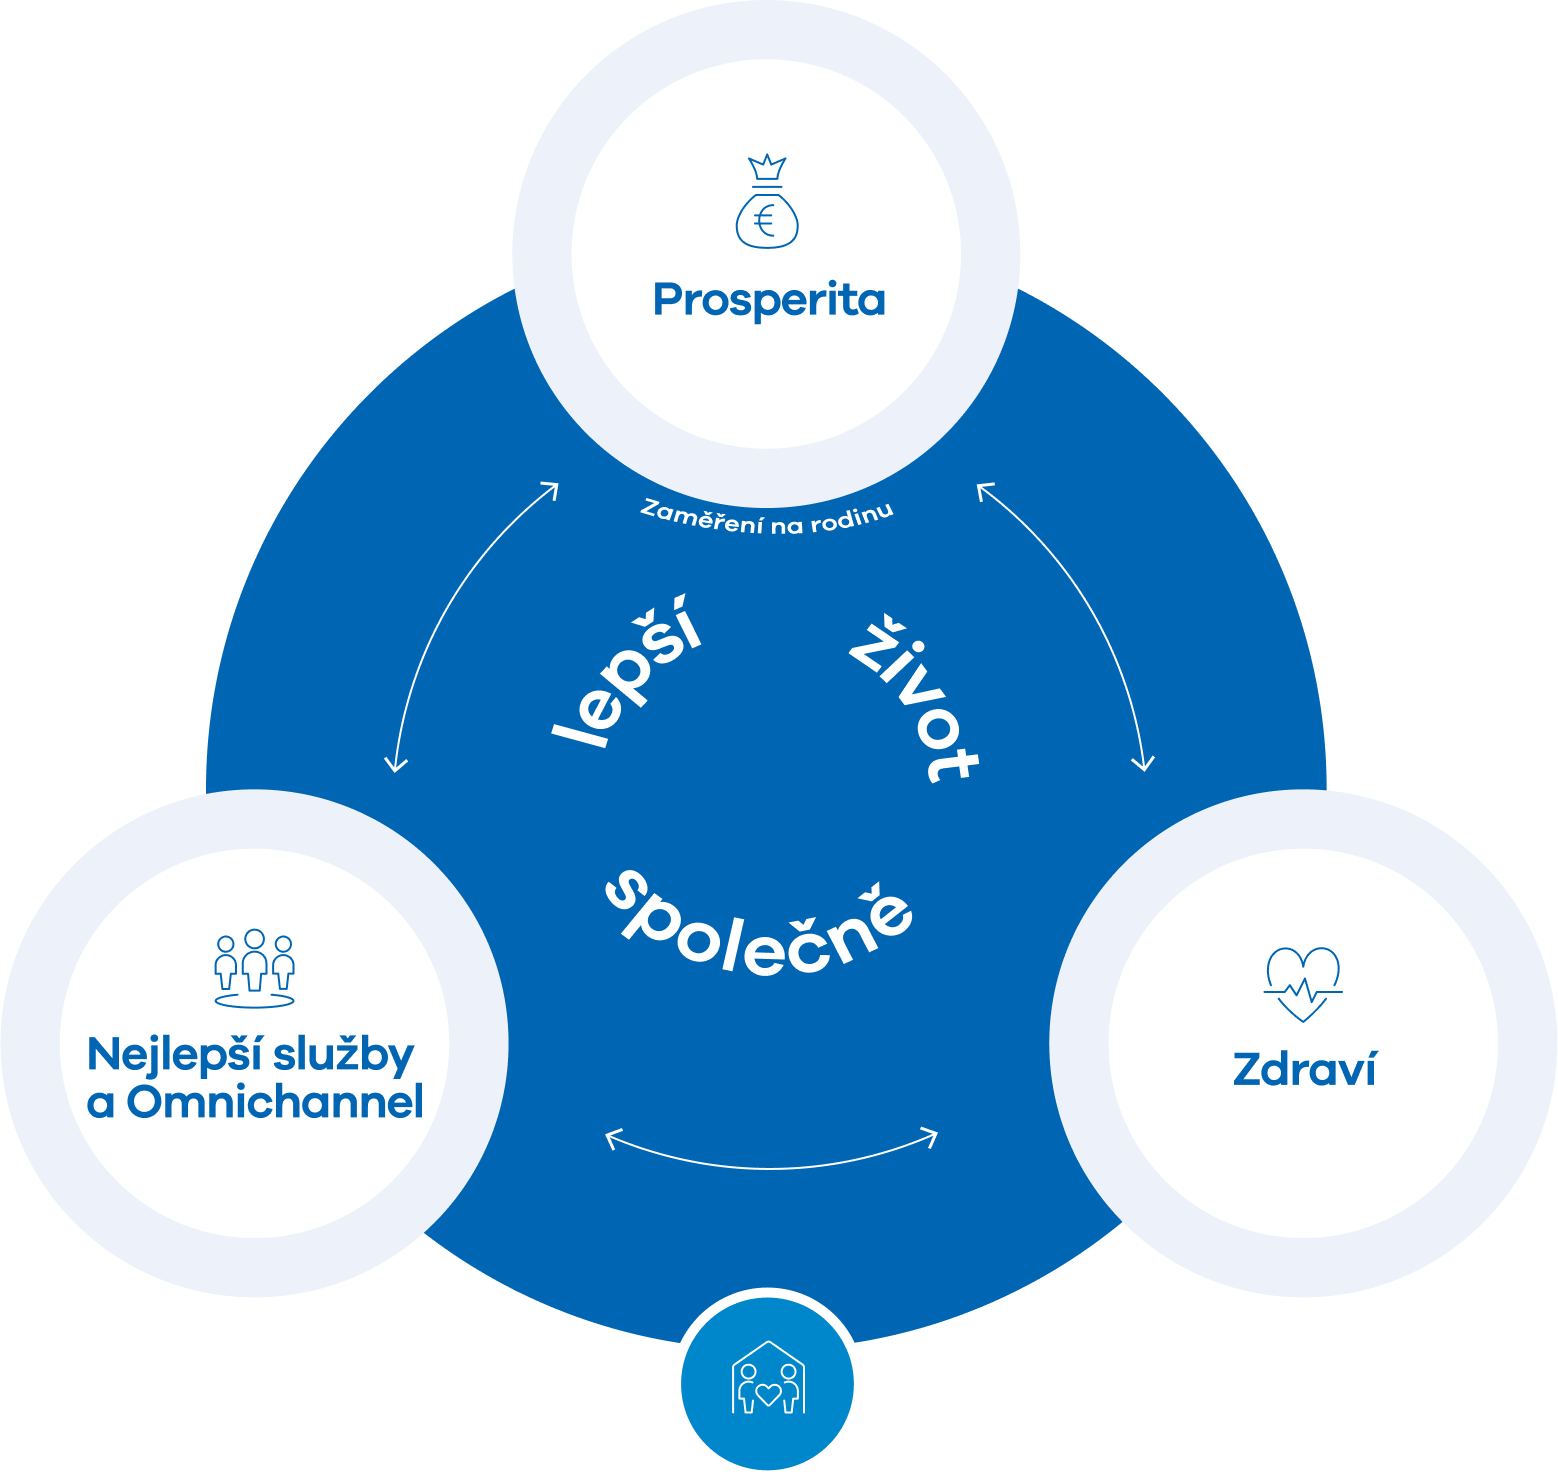
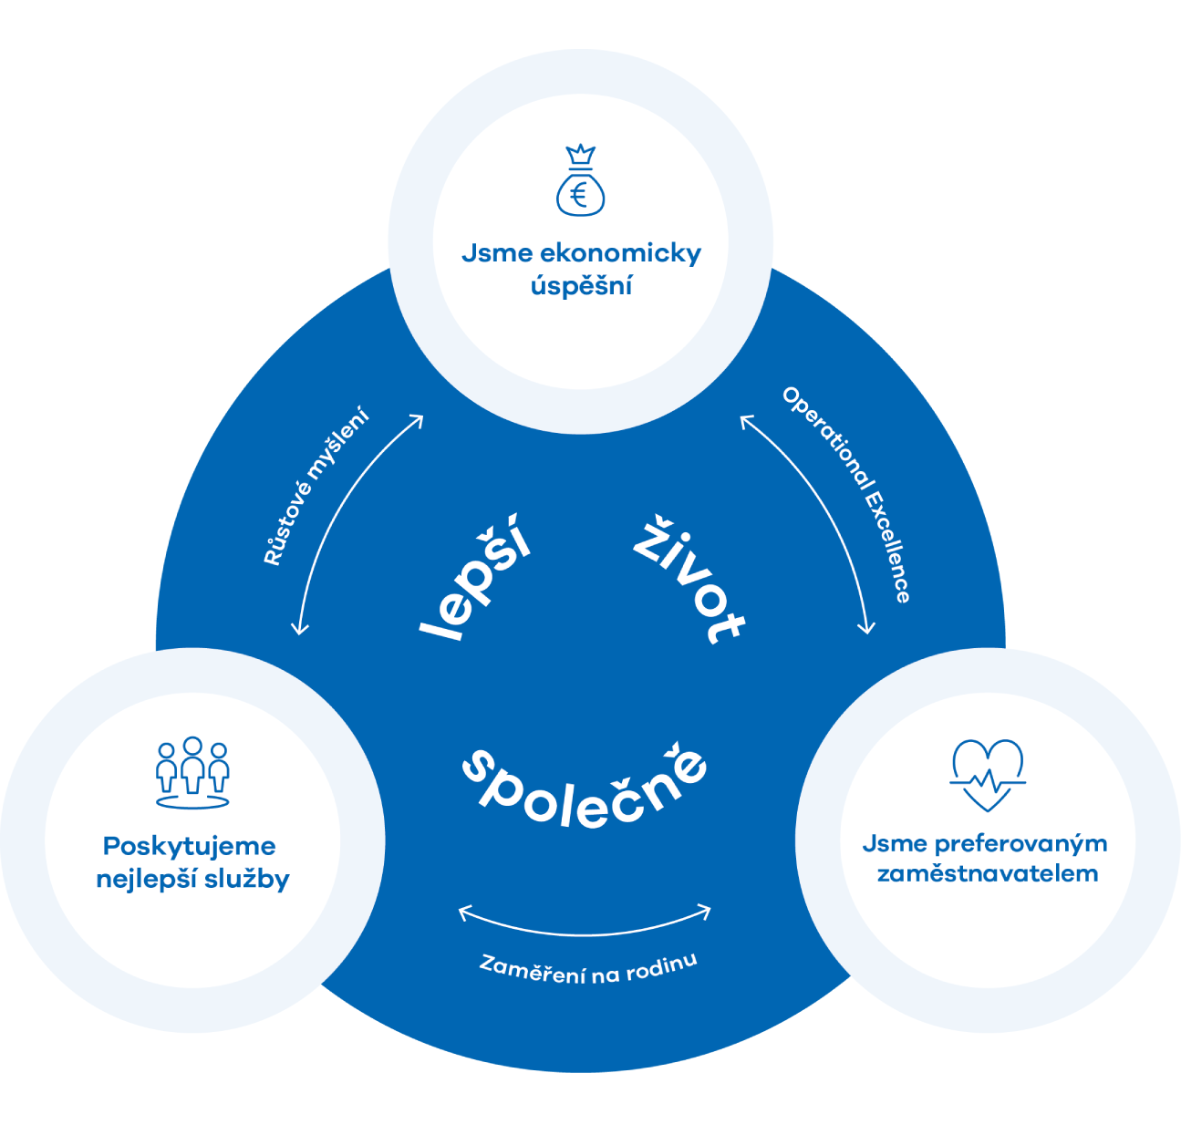
Update articles content

diff --git a/app/routes/article.mission-and-vision-2028/route.tsx b/app/routes/article.mission-and-vision-2028/route.tsx
@@ -62,12 +62,12 @@ function Page() {
             <h5 className='col-start-4 col-span-2 row-start-1 text-base font-semibold'>Strategie</h5>
             <h1 className='col-start-7 col-span-6 row-start-1 text-2xl font-semibold'>Naše mise</h1>
             <h5 className='col-start-7 col-span-6 row-start-2 text-2xl pb-6'>
-              Díky síle naší komunity chráníme a zlepšujeme zdraví a prosperitu. Zvolit si UNIQA znamená žít lépe. Lepší život
-              společně.
+              Díky síle naší komunity chráníme a zlepšujeme zdraví a prosperitu. Zvolit si UNIQA znamená žít lépe. <b>Lepší život
+              společně.</b>
             </h5>
             <h1 className='col-start-7 col-span-6 row-start-3 text-2xl font-semibold'>Naše vize</h1>
             <h5 className='col-start-7 col-span-6 row-start-4 text-2xl'>
-              V roce 2028 je UNIQA Česká republika a Slovensko moderním, zdravým a prosperujícím finančním domem. Využíváme
+              V roce 2028 je UNIQA Česká republika a Slovensko <b>naším výjimečným finančním domem</b>. Využíváme
               omnichannel řešení, abychom poskytovali nejlepší služby zákazníkům. Trh nás vnímá jako společnost s řešeními
               zaměřenými na potřeby rodiny.
             </h5>
@@ -84,14 +84,22 @@ function Page() {
             <Divider className='row-start-2 col-start-7 col-span-6' />
             <div className='row-start-3 row-span-3 col-start-7 col-span-6'>
               <p className='text-lg pb-4'>
-                Naše strategie na období 2025–2028 vychází ze strategie skupiny UNIQA, ale zároveň naplňuje naše lokální vize a
-                potřeby. Zaměřuje se na 5 klíčových oblastí:{' '}
-              </p>
+                Naše strategie na období 2025–2028 vychází ze strategie skupiny UNIQA, ale zároveň naplňuje naše lokální vize a potřeby. Zaměřuje se na 3 klíčové oblasti, 1 podpůrnou oblast a 1 diferenciátor:{' '}
+              </p><br />
+              <p><b>Klíčové oblasti:</b></p>
               <ul className='list-disc text-lg ps-8'>
-                <li>Prosperita: Ziskový růst</li>
-                <li>Zdraví: Lidé a kultura</li>
-                <li>Zdraví: Operational Excellence</li>
-                <li>Nejlepší služby a Omnichannel: Zákazníci a partneři</li>
+                <li>Jsme ekonomicky úspěšní</li>
+                <li>Jsme preferovaným zaměstnavatelem</li>
+                <li>Poskytujeme nejlepší služby</li>
+              </ul>
+              <br />
+              <p><b>Podpůrná oblast:</b></p>
+              <ul className='list-disc text-lg ps-8'>
+                <li>Operational Excellence</li>
+              </ul>
+              <br />
+              <p><b>Diferenciátor:</b></p>
+              <ul className='list-disc text-lg ps-8'>
                 <li>Zaměření na rodinu</li>
               </ul>
             </div>

diff --git a/app/routes/article.our-strategy/route.tsx b/app/routes/article.our-strategy/route.tsx
@@ -64,14 +64,28 @@ function Page() {
             <h5 className='col-start-1 col-span-2 row-start-1 text-base font-semibold'>Co tvoří naši DNA</h5>
             <h5 className='col-start-4 col-span-2 row-start-1 text-base font-semibold'>Strategie</h5>
             <h2 className='row-start-1 col-start-7 col-span-6 text-2xl'>
-              Naše strategie na období 2025–2028 vychází ze strategie skupiny UNIQA, ale zároveň naplňuje naše lokální vize a
-              potřeby. Zaměřuje se na 5 klíčových oblastí:
+              Naše strategie na období 2025–2028 vychází ze strategie skupiny UNIQA, ale zároveň naplňuje naše lokální vize a potřeby. Zaměřuje se na 3 klíčové oblasti, 1 podpůrnou oblast a 1 diferenciátor:
             </h2>
-            <ul className='row-start-2 col-start-7 col-span-6 text-2xl list-disc ps-14'>
-              <li>Prosperita: Ziskový růst</li>
-              <li>Zdraví: Lidé a kultura</li>
-              <li>Zdraví: Operational Excellence</li>
-              <li>Nejlepší služby a Omnichannel: Zákazníci a partneři</li>
+            <p className='row-start-2 col-start-7 col-span-6 text-xl font-medium'> <b>
+             Klíčové oblasti:</b>
+            </p>
+            <ul className='row-start-3 col-start-7 col-span-6 text-2xl list-disc ps-14'>
+              <li>Jsme ekonomicky úspěšní</li>
+                <li>Jsme preferovaným zaměstnavatelem</li>
+                <li>Poskytujeme nejlepší služby</li>
+            </ul>
+
+             <p className='row-start-4 col-start-7 col-span-6 text-xl font-medium'> <b>
+             Podpůrná oblast:</b>
+            </p>
+            <ul className='row-start-5 col-start-7 col-span-6 text-2xl list-disc ps-14'>
+              <li>Operational Excellence</li>
+            </ul>
+
+             <p className='row-start-6 col-start-7 col-span-6 text-xl font-medium'> <b>
+             Diferenciátor:</b>
+            </p>
+            <ul className='row-start-7 col-start-7 col-span-6 text-2xl list-disc ps-14'>
               <li>Zaměření na rodinu</li>
             </ul>
           </section>

diff --git a/app/components/our-plan.tsx b/app/components/our-plan.tsx
@@ -17,7 +17,7 @@ function OurPlan() {
         </Button>
         <Divider className='row-start-2 col-start-7 col-span-6 mb-2' />
         <h5 className='row-start-3 col-start-7 col-span-6 text-lg'>
-          V roce 2028 je UNIQA CZ/SK moderním, zdravým a prosperujícím finančním domem. Využíváme omnichannel řešení k poskytování
+          V roce 2028 je UNIQA Česká republika a Slovensko <b>naším výjimečným finančním domem</b>. Využíváme omnichannel řešení k poskytování
           těch nejlepších služeb zákazníkům. Trh nás vnímá jako společnost s řešeními zaměřenými na potřeby rodiny.
         </h5>
         <div className='row-start-3 mt-12 row-span-2 col-start-2 col-span-7 max-w-[768px]'>

diff --git a/app/components/our-vision.tsx b/app/components/our-vision.tsx
@@ -18,7 +18,7 @@ function OurVision() {
         </h3>
         <h5 className='col-start-1 col-span-2 row-start-2 text-lg font-semibold'>Naše vize</h5>
         <h3 className='col-start-7 col-span-6 row-start-2 text-2xl'>
-          V roce 2028 je UNIQA Česká republika a Slovensko moderním, zdravým a prosperujícím finančním domem. Využíváme
+          V roce 2028 je UNIQA Česká republika a Slovensko <b>naším výjimečným finančním domem</b>. Využíváme
           omnichannel řešení, abychom poskytovali nejlepší služby zákazníkům. Trh nás vnímá jako společnost s řešeními zaměřenými
           na potřeby rodiny.
         </h3>
